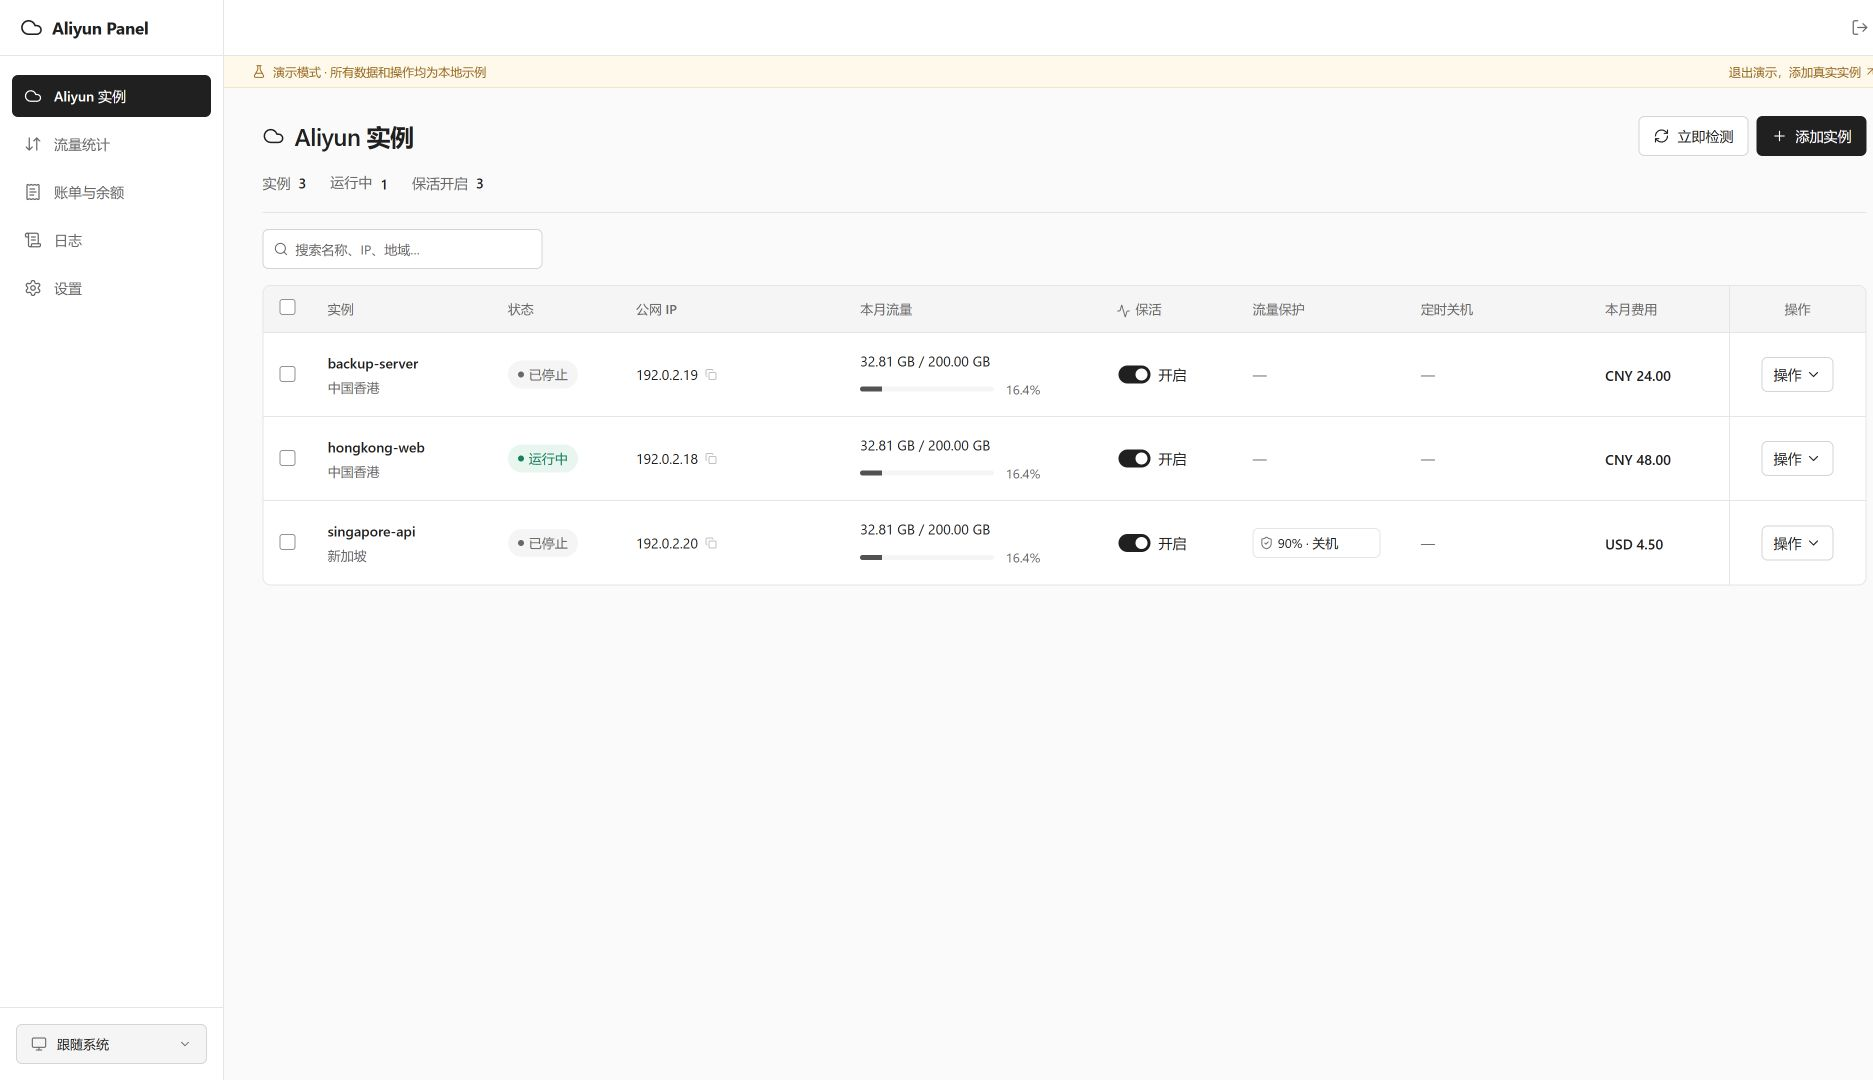
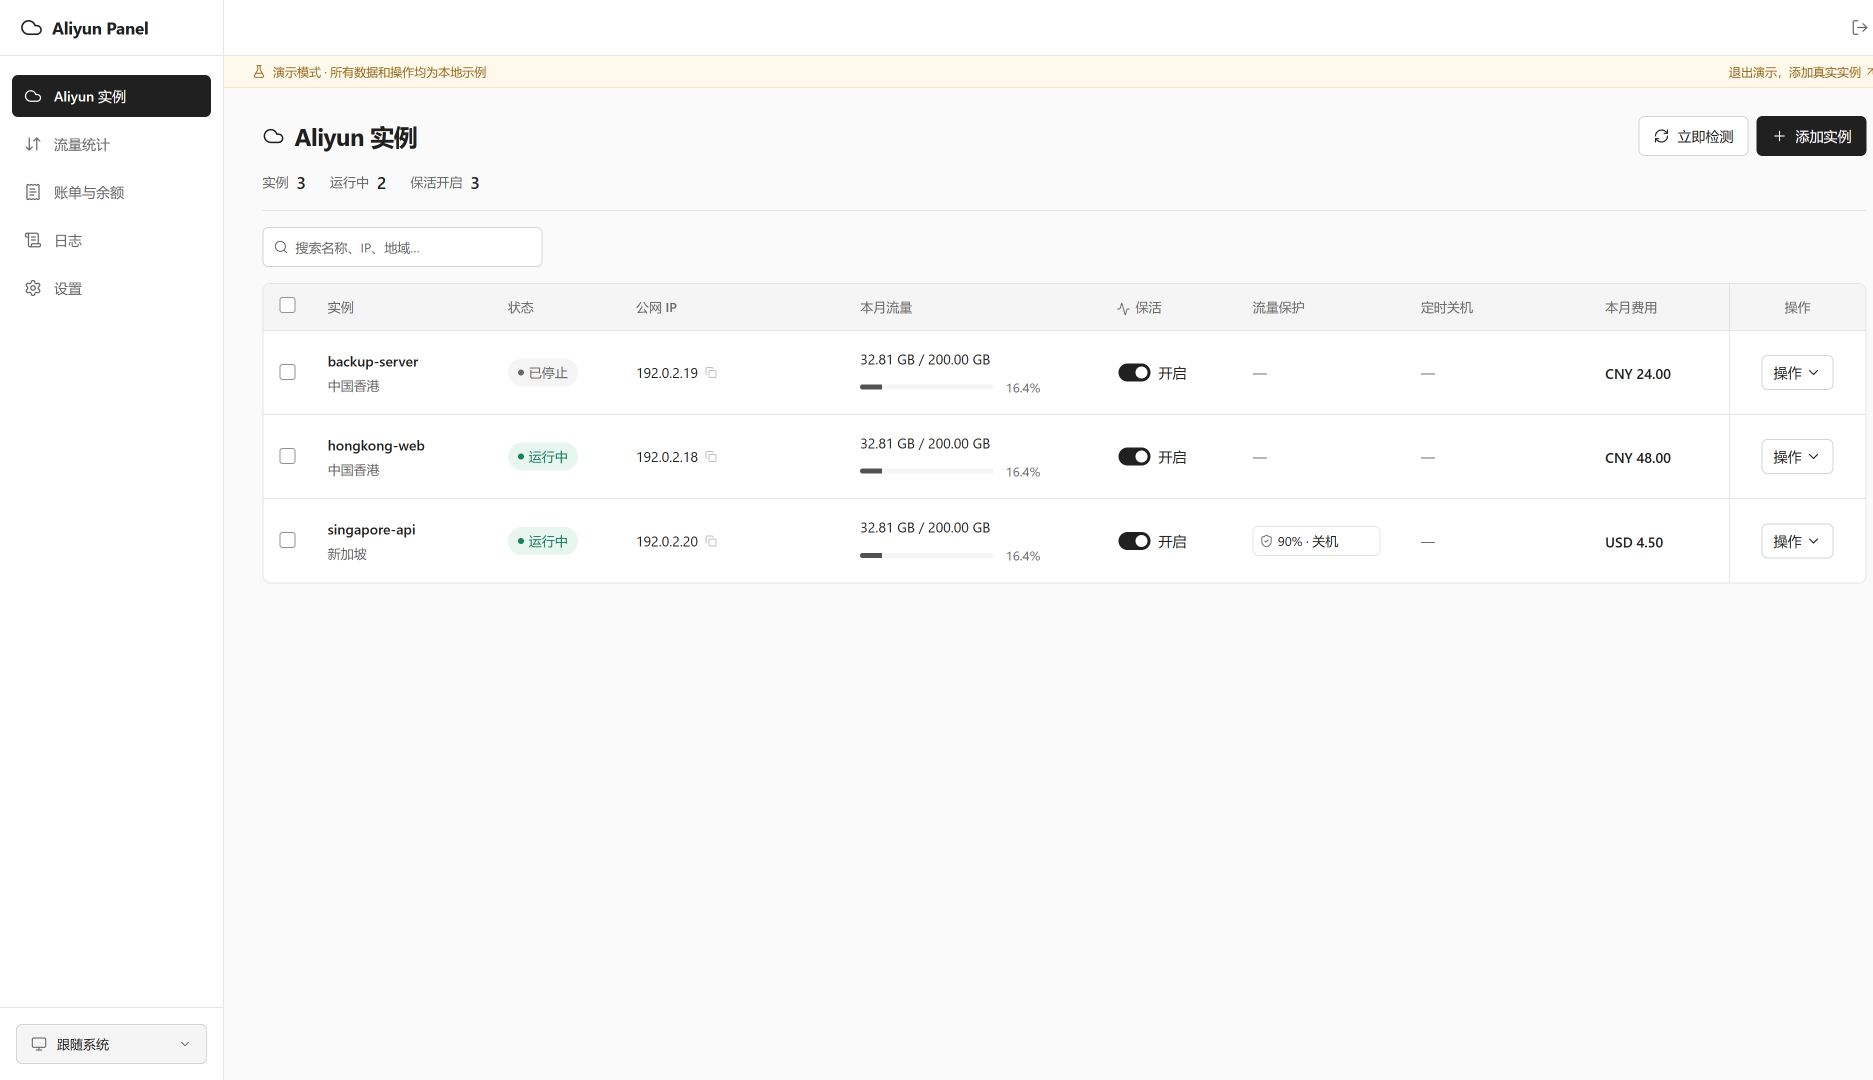
Refine page title weight and instance count typography

diff --git a/src/styles/panel.css b/src/styles/panel.css
@@ -9,7 +9,7 @@
 .page-heading h1 {
   font-size: var(--font-title);
   line-height: 32px;
-  font-weight: 600;
+  font-weight: 700;
 }
 .section-heading h2,
 .form-panel h2,
@@ -343,17 +343,32 @@ summary:focus-visible {
   font-weight: 500;
 }
 .instance-counts {
-  gap: 24px;
+  gap: 12px 24px;
 }
 .instance-counts > span {
-  align-items: baseline;
-  font-size: var(--font-md);
+  align-items: center;
+  font-size: var(--font-sm);
   line-height: 24px;
 }
 .instance-counts strong {
-  font-size: var(--font-md);
+  display: inline-flex;
+  align-items: center;
+  min-width: 1ch;
+  min-height: 24px;
+  font-size: 17px;
   font-weight: 600;
-  line-height: inherit;
+  line-height: 24px;
+}
+.instance-counts .data-region-inline {
+  display: block;
+}
+.instance-counts .data-region-placeholder {
+  display: flex;
+  align-items: center;
+  height: 24px;
+}
+.instance-counts .skeleton.skeleton-count {
+  width: 1ch;
 }
 .instances-overview {
   padding-bottom: 16px;

diff --git a/src/components/ui/DataRegion.tsx b/src/components/ui/DataRegion.tsx
@@ -130,11 +130,13 @@ export function PageLoading({ page }: { page: string }) {
           </div>
         </div>
         <div className="instances-overview">
-          <div className="instance-counts">
+          <div className="instance-counts" aria-label="实例概况">
             {["实例", "运行中", "保活开启"].map((label) => (
               <span key={label}>
                 {label}
-                <Skeleton className="skeleton-count" />
+                <strong>
+                  <Skeleton className="skeleton-count" />
+                </strong>
               </span>
             ))}
           </div>

diff --git a/src/Instances.tsx b/src/Instances.tsx
@@ -134,7 +134,7 @@ export default function Instances() {
         </div>
       </div>
       <div className="instances-overview">
-        <div className="instance-counts">
+        <div className="instance-counts" aria-label="实例概况">
           <span>
             实例 <strong>{items.length}</strong>
           </span>
